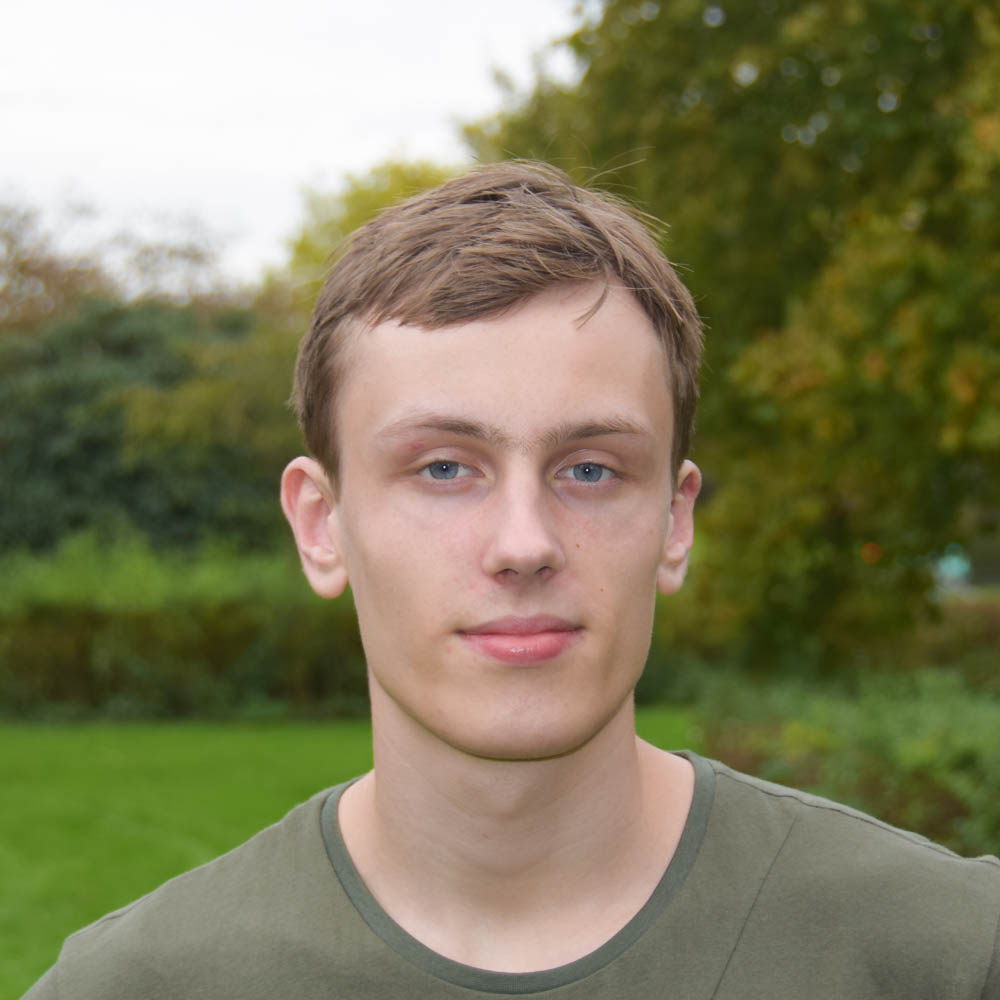
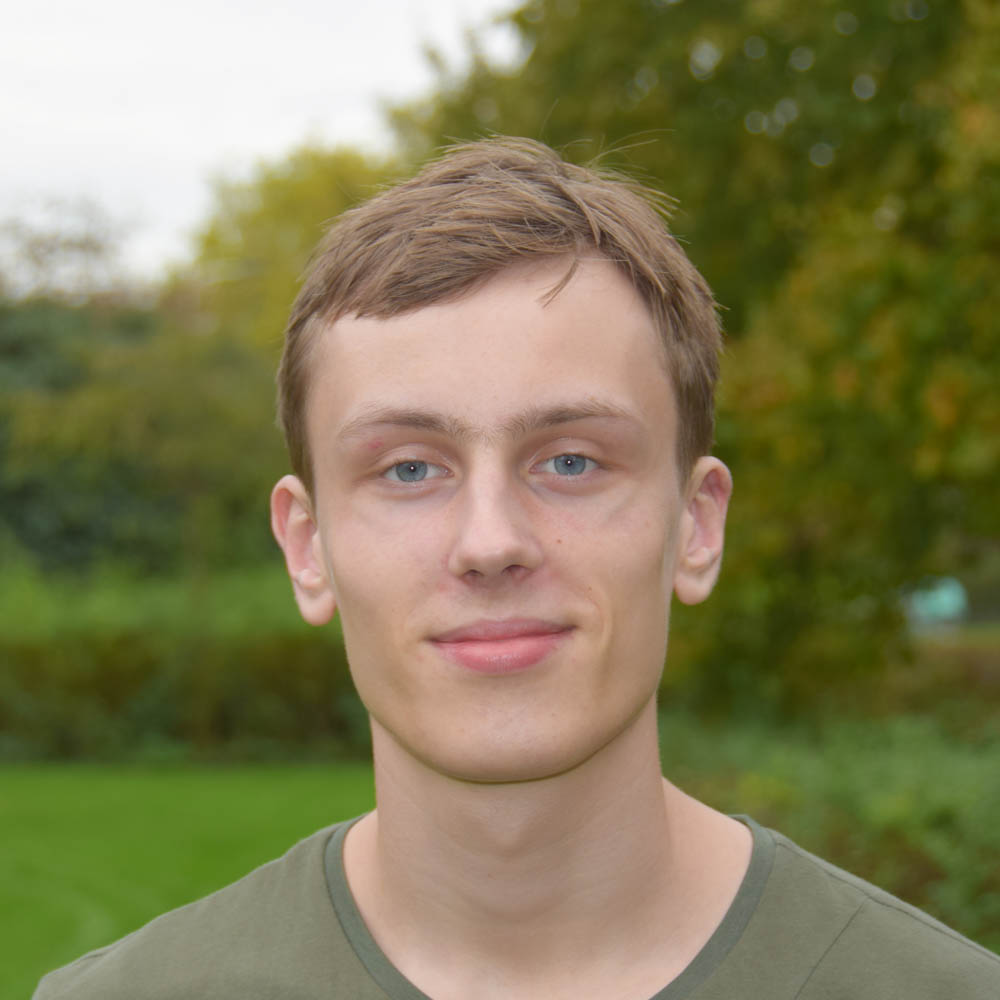
New content about minor and employer + new photo for me.

diff --git a/index.html b/index.html
@@ -97,17 +97,17 @@
 
     <div class="row people_pics">
         <div class="col-lg-4 text-center">
-            <img class="rounded-circle" src="media/Casper.jpg" alt="Casper Cromjongh">
+            <img class="rounded-circle shadow-img" src="media/Casper.jpg" alt="Casper Cromjongh">
             <h2>Casper Cromjongh</h2>
             <p>Electrical Engineer. Responsible for power systems, sensing, control systems. Designer & maintainer of this website.</p>
         </div><!-- /.col-lg-4 -->
         <div class="col-lg-4 text-center">
-            <img class="rounded-circle" src="media/Jonathan.jpg" alt="Jonathan Raes">
+            <img class="rounded-circle shadow-img" src="media/Jonathan.jpg" alt="Jonathan Raes">
             <h2>Jonathan Raes</h2>
             <p>Computer Science and Engineering. In charge of IT systems and higher level software components.</p>
         </div><!-- /.col-lg-4 -->
         <div class="col-lg-4 text-center">
-            <img class="rounded-circle" src="media/Teun.jpg" alt="Teun Bakker">
+            <img class="rounded-circle shadow-img" src="media/Teun.jpg" alt="Teun Bakker">
             <h2>Teun Bakker</h2>
             <p>Mechanical Engineer. Transport systems inside Barrie. Mechanical workman.</p>
         </div><!-- /.col-lg-4 -->
@@ -116,16 +116,35 @@
     <div class="row people_pics">
         <div class="col-lg-2"></div>
         <div class="col-lg-4 text-center">
-            <img class="rounded-circle" src="media/Vincent.jpg" alt="Vincent van Parijs">
+            <img class="rounded-circle shadow-img" src="media/Vincent.jpg" alt="Vincent van Parijs">
             <h2>Vincent van Parijs</h2>
             <p>Mechanical Engineer. Cold drink system. Logistical organisator, mechanical constructor.</p>
         </div><!-- /.col-lg-4 -->
         <div class="col-lg-4 text-center">
-            <img class="rounded-circle" src="media/Joppe.jpg" alt="Joppe de Waart">
+            <img class="rounded-circle shadow-img" src="media/Joppe.jpg" alt="Joppe de Waart">
             <h2>Joppe de Waart</h2>
             <p>Industrial Designer. Project planning, concept development and PR.</p>
         </div><!-- /.col-lg-4 -->
         <div class="col-lg-2"></div>
+    </div>
+
+    <hr class="featurette-divider">
+
+    <div class="row featurette">
+        <div class="col-md-7 order-md-1">
+            <h2 class="featurette-heading">Assignment</h2>
+            <p class="lead">This project is part of the Minor Robotics from the TU Delft. The task given is to build a particular robot according to the requirements and whishes of the employee. In our case, that is the Science Centre. The full minor description can be found
+                <a href="http://studenten.tudelft.nl/en/students/faculty-specific/3me/education-3me/bachelor/minors/minor-robotica/">here</a>.</p>
+            <p class="lead">The Science Centre Delft is our employer. The Science Centre has the ambition to supply visitors an experience and education concerning new technologies developed at the TU Delft. Their vision is to have multiple robots in the building that assist and entertain the visitor. These robots should communicate with each other to give each user their own, personal experience.</p>
+        </div>
+        <div class="col-md-5 order-md-2 mb-4">
+            <img src="media/SC_letters.jpg" alt="Science Centre hall" style="width: 500px;" class="featurette-image img-fluid mx-auto shadow-img">
+        </div>
+    </div>
+    <div class="row">
+        <div class="col-12">
+            <p class="lead">Apart from our robot, another group is concurrently building a host robot. It's purpose is to provide information to visitors entering or leavind the building. See their project page, <a href="http://iona.one">IONA</a>. Other robots are meant to be added to the system later.</p>
+        </div>
     </div>
     
     <hr class="featurette-divider">

diff --git a/contact.html b/contact.html
@@ -25,11 +25,11 @@
             <li class="nav-item">
                 <a class="nav-link" href="/">Our project</a>
             </li>
-            <li class="nav-item active">
-                <a class="nav-link" href="full_concept.html">Concept Description <span class="sr-only">(current)</span></a>
-            </li>
             <li class="nav-item">
-                <a href="contact.html" class="nav-link">Contact</a>
+                <a class="nav-link" href="full_concept.html">Concept Description</a>
+            </li>
+            <li class="nav-item active">
+                <a href="contact.html" class="nav-link">Contact <span class="sr-only">(current)</span></a>
             </li>
         </ul>
     </div>
@@ -41,7 +41,11 @@
             <h2 class="featurette-heading">Contact.
                 <!--<span class="text-muted">What is that drawing?</span>-->
             </h2>
-            <p class="lead">Contact info will be placed here. Have patience please.</p>
+            <p class="lead">Bent u geïnteresseerd en heeft u vragen? Dan kunt u natuurlijk contact met ons opnemen.</p>
+            <p class="lead">Email address:
+                <a data-name="info" data-domain="project-barrie" data-tld="nl" href="#" class="cryptedmail" onclick="window.location.href = 'mailto:' + this.dataset.name + '@' + this.dataset.domain + '.' + this.dataset.tld"></a>
+            </p>
+            <p class="lead">Wij zijn gestationeerd in het Science Centre Delft. Dit is ook waar de Barrie uiteindelijk te bezichtigen en gebruiken zal zijn.</p>
         </div>
         <div class="col-md-5 order-md-2">
             <img class="featurette-image img-fluid mx-auto" alt="Concept drawing 2" style="width: 500px;" src="media/concept_drawing_2.jpg">

diff --git a/css/style.css b/css/style.css
@@ -72,6 +72,7 @@ html {
     background-size: cover !important;
     background-position: center !important;
     transform: translateZ(0);
+    -moz-transform: none;
 }
 
 .actual_content {
@@ -126,6 +127,14 @@ footer {
 
 .partner_logo .row {
     justify-content: center;
+}
+
+.cryptedmail:after {
+    content: attr(data-name) "@" attr(data-domain) "." attr(data-tld);
+}
+
+.shadow-img {
+    box-shadow: 0 2px 6px rgba(0,0,0,0.16);
 }
 
 
